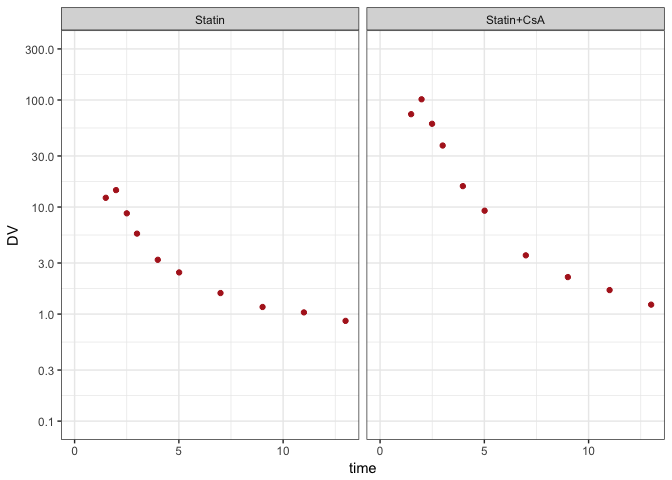
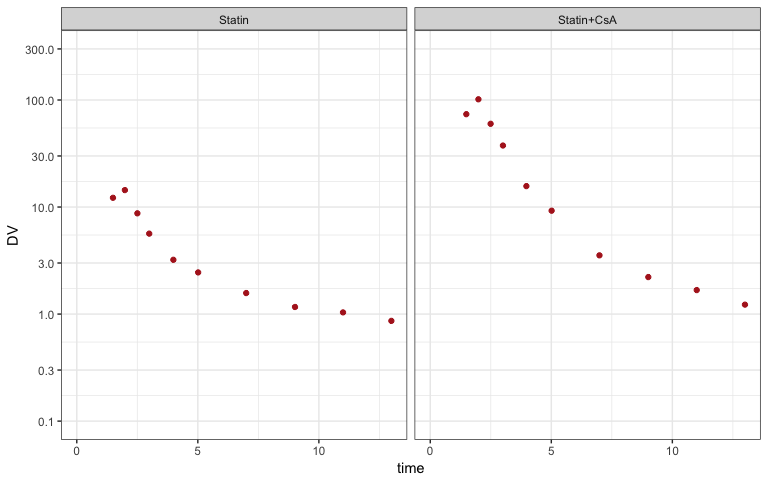
re-=build optim

diff --git a/docs/oatp_ddi_optimization.md b/docs/oatp_ddi_optimization.md
@@ -229,7 +229,7 @@ ggplot(data=df_pred) +
   scale_x_continuous(name="Time (hours)", breaks=seq(0,14,2)) +
   scale_linetype_manual(values= c(2,1),
                         labels=c("Initial estimates", "Final estimates"), name="") +
-  theme(legend.position="top")  + theme_bw()
+  theme_bw() + theme(legend.position="top") 
 ```
 
 ![](img/oatp_ddi_optimization-unnamed-chunk-11-1.png)
@@ -395,7 +395,7 @@ ggplot(data=hxm) +
   geom_line(aes(iteration,value,group=pop),col="darkslateblue") + 
   geom_line(data=bestm,aes(iteration,value),col="orange",lwd=1) + 
   scale_y_continuous(trans="log", breaks=10^seq(-4,4), name="Parameter value") + 
-  facet_wrap(~variable, ncol=2, scales="free_y") 
+  facet_wrap(~variable, ncol=2, scales="free_y") + theme_bw()
 ```
 
 ![](img/oatp_ddi_optimization-unnamed-chunk-16-1.png)
